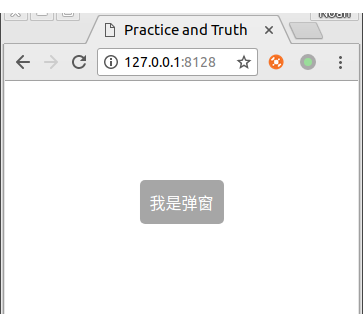
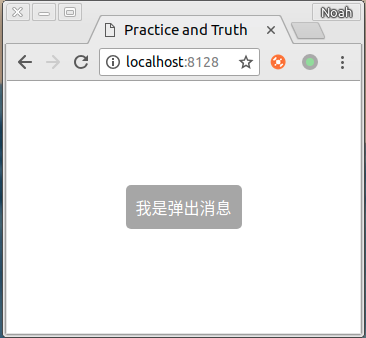
chore:add babel-plugin-test

Changed region(s): [[0.0, 0.0, 1.0, 1.0], [0.3333, 0.5505, 0.6667, 0.7034], [0.7273, 0.1529, 0.7879, 0.2141]]

diff --git a/src/toast/index.js b/src/toast/index.js
@@ -3,7 +3,7 @@ import vue from 'vue'
 // 这里就是我们刚刚创建的那个静态组件
 import toastComponent from './toast.vue'
 
-// 返回一个 扩展实例构造器, 关于 vue.extend 有不懂的同学,可以去查看以下官方文档
+// 返回一个 扩展实例构造器, 关于 vue.extend 有不懂的同学,可以去查看以下官方文档 https://cn.vuejs.org/v2/api/#Vue-extend
 const ToastConstructor = vue.extend(toastComponent)
 
 // 定义弹出组件的函数 接收2个参数, 要显示的文本 和 显示时间
@@ -22,6 +22,8 @@ function showToast(text, duration = 2000) {
 
   // 把 实例化的 toast.vue 添加到 body 里
   document.body.appendChild(toastDom.$el)
+
+  // 过了 duration 时间后隐藏
   setTimeout(() => {toastDom.show = false} ,duration)
 }
 

diff --git a/src/App.vue b/src/App.vue
@@ -1,6 +1,6 @@
 <template>
   <div id="app">
-
+    <input type="button" value="显示弹窗" @click="showToast">
   </div>
 </template>
 
@@ -12,9 +12,11 @@
       }
     },
     methods: {
+      showToast () {
+        this.$toast('我是弹出消息')
+      }
     },
     mounted () {
-      this.$toast('123123')
     }
   }
 </script>

diff --git a/src/main.js b/src/main.js
@@ -3,8 +3,8 @@ import App from './App'
 import toastRegistry from './toast/index'
 
 Vue.config.productionTip = false
-toastRegistry()
-// Vue.use(toastRegistry)
+
+Vue.use(toastRegistry)
 /* eslint-disable no-new */
 new Vue({
   el: '#app',

diff --git a/src/toast/README.md b/src/toast/README.md
@@ -1,4 +1,4 @@
-一. 先写一个普通的vue组件
+### 一. 先写一个普通的vue组件
 
 文件位置 `/src/toast/toast.vue`
 
@@ -6,7 +6,7 @@
       <div>我是弹窗</div>
     </template>
     
-二. 在我们需要使用的页面引入组件,方便看效果和错误
+### 二. 在我们需要使用的页面引入组件,方便看效果和错误
 
     <template>
       <div id="app">
@@ -21,7 +21,9 @@
       }
     </script>
 
-#插图 1
+![step_1](./img/step_1.png)
+
+### 三. 实现动态加载组件
 
 可以看到,已经显示出一个静态的弹出层了,接下来我们就来看看如何实现动态弹出.  
 
@@ -29,3 +31,78 @@
 
 文件位置 `/src/toast/index.js`
 
+    import vue from 'vue'
+
+    // 这里就是我们刚刚创建的那个静态组件
+    import toastComponent from './toast.vue'
+
+    // 返回一个 扩展实例构造器
+    const ToastConstructor = vue.extend(toastComponent)
+
+    // 定义弹出组件的函数 接收2个参数, 要显示的文本 和 显示时间
+    function showToast(text, duration = 2000) {
+
+      // 实例化一个 toast.vue, 并且传入参数
+      const toastDom = new ToastConstructor({
+        el: document.createElement('div'),
+        data() {
+          return {
+            text:text,
+            show:true
+          }
+        }
+      })
+
+      // 把 实例化的 toast.vue 添加到 body 里
+      document.body.appendChild(toastDom.$el)
+
+      // 过了 duration 时间后隐藏
+      setTimeout(() => {toastDom.show = false} ,duration)
+    }
+
+    // 注册为全局组件的函数
+    function registryToast() {
+      // 将组件注册到 vue 的 原型链里去,
+      // 这样就可以在所有 vue 的实例里面使用 this.$toast()
+      vue.prototype.$toast = showToast
+    }
+
+    export default registryToast
+
+> 附一个传送门 [vue.extend 官方文档](https://cn.vuejs.org/v2/api/#Vue-extend)
+
+然后,在vue的入口文件(脚手架生成的话是`./src/main.js`) 注册一下组件
+
+文件位置 `/src/main.js`
+
+    import toastRegistry from './toast/index'
+
+    // 这里也可以直接执行 toastRegistry()
+    Vue.use(toastRegistry)
+
+最后,我们稍微修改一下使用方式,把`第二步` 的引用静态组件的代码,改成如下
+
+    <template>
+      <div id="app">
+        <input type="button" value="显示弹窗" @click="showToast">
+      </div>
+    </template>
+
+    <script>
+      export default {
+        methods: {
+          showToast () {
+            this.$toast('我是弹出消息')
+          }
+        }
+      }
+    </script>
+
+<!-- ![step_1](./img/step_1.png) -->
+<!-- ![step_2](./img/step_2.gif) -->
+<!-- <img src="./img/step_2.gif" /> -->
+<img src="./img/step_2.gif" />
+
+可以看到,我们已经`不需要`在页面里面`引入`跟`注册`组件,就可以直接使用`this.$toast()`了.
+
+现在我们已经初步实现了一个弹窗.
